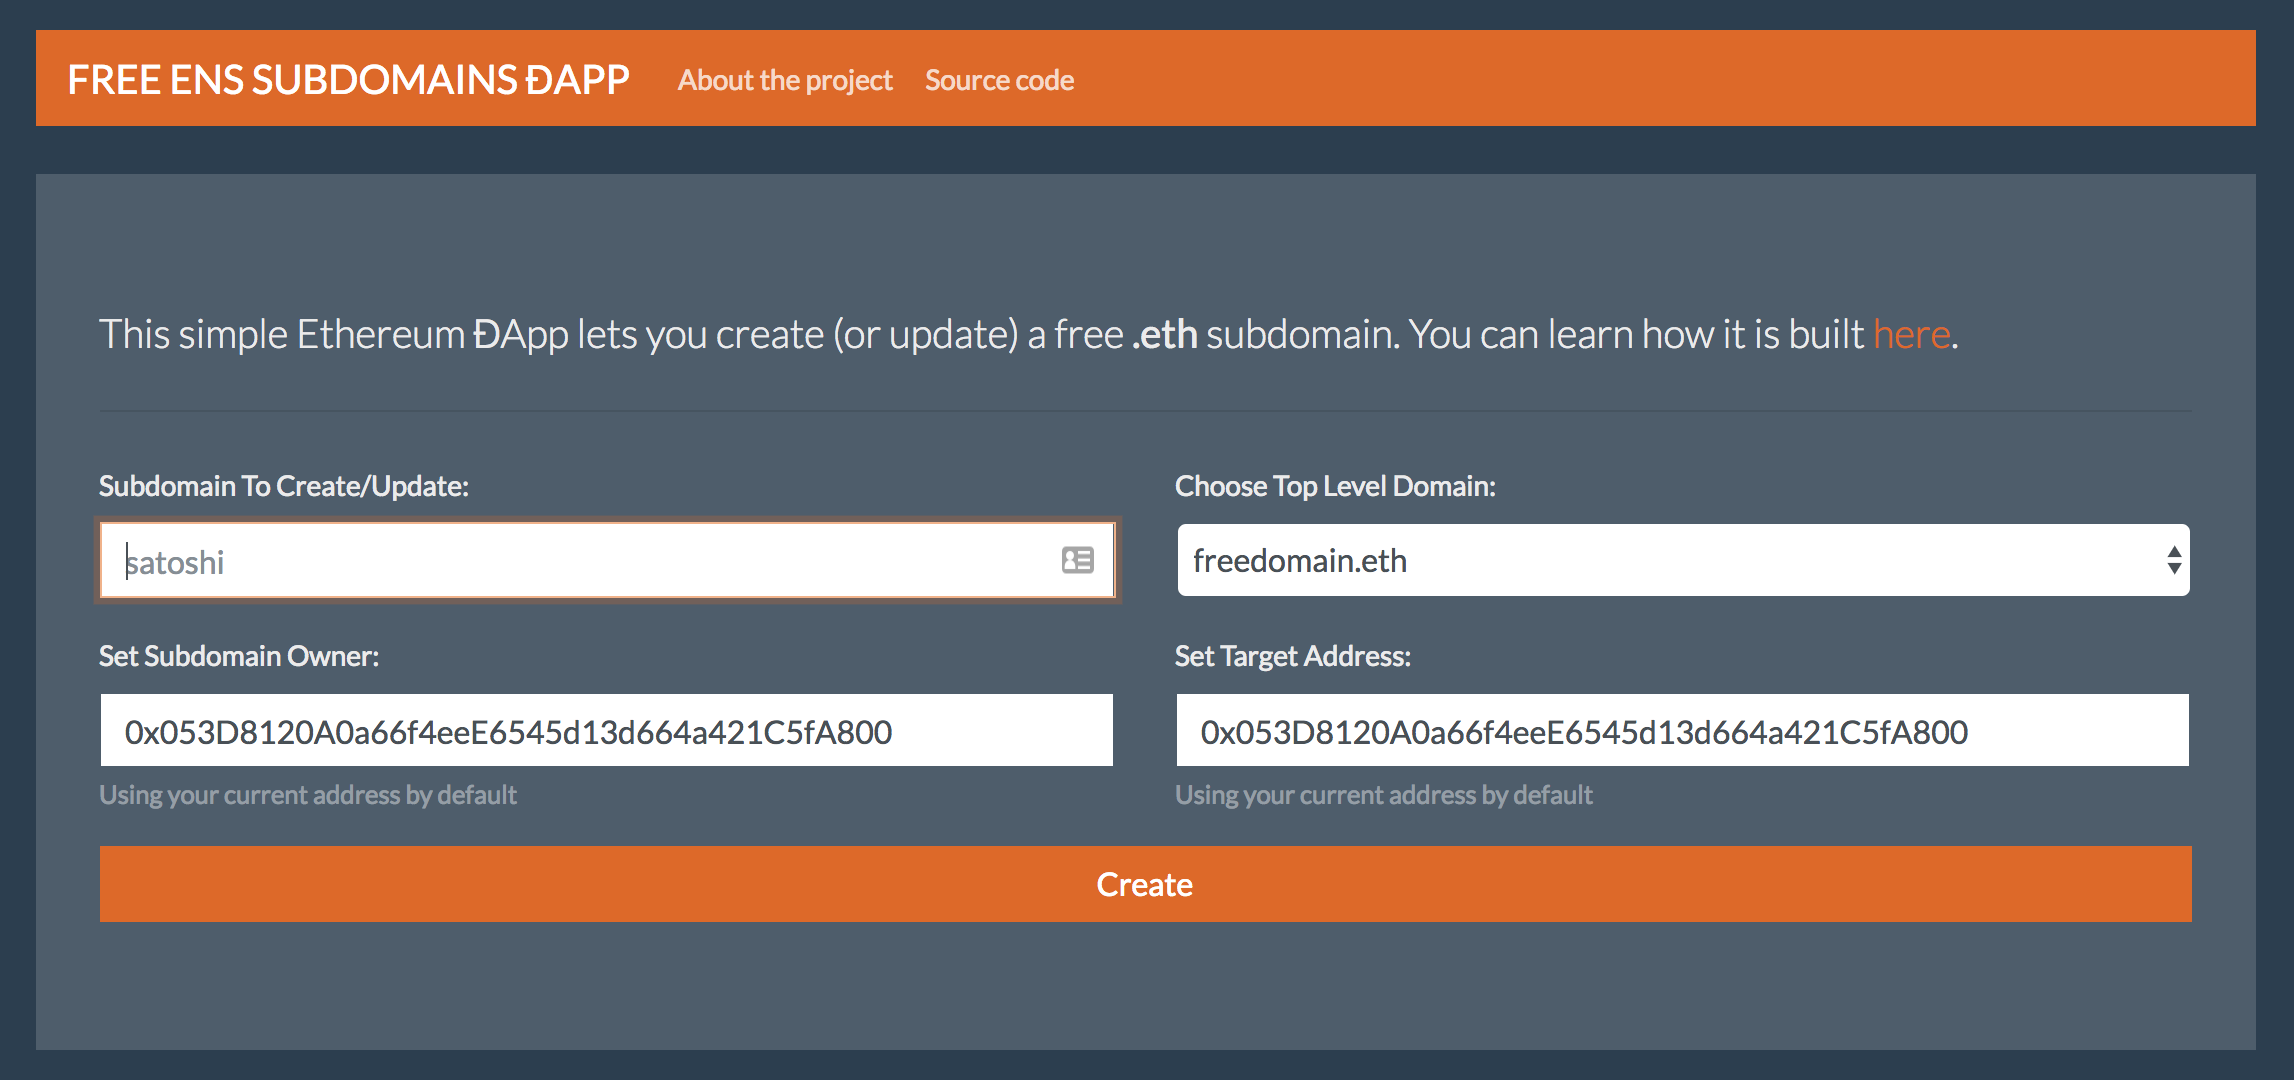
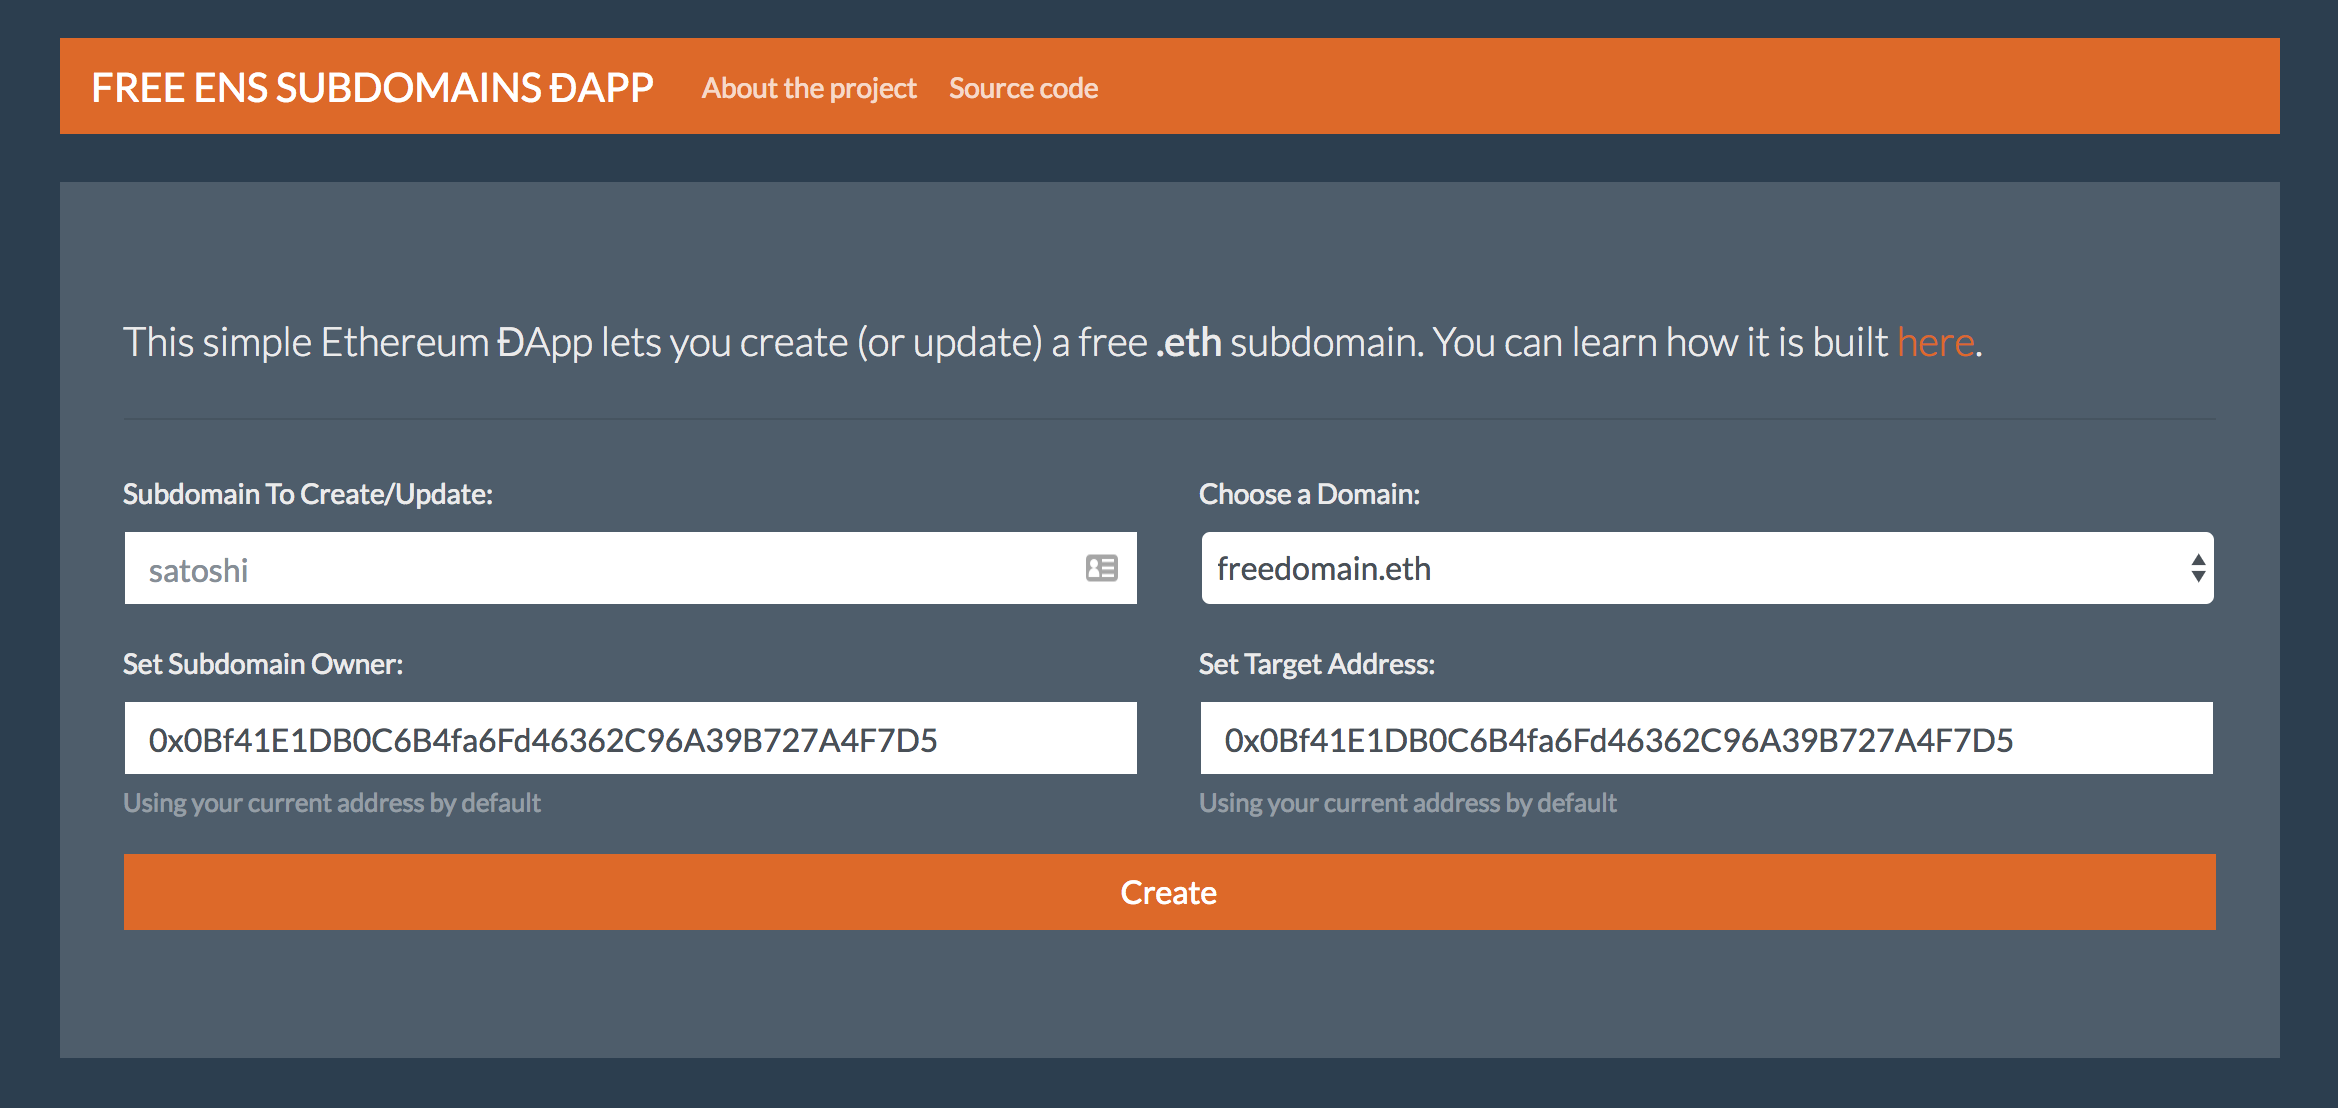
changed top-domain to domain

Changed region(s): [[0.0, 0.1528, 0.9904, 0.9778], [0.0, 0.0306, 0.9904, 0.1222]]

diff --git a/test/EnsSubdomainFactoryTest.js b/test/EnsSubdomainFactoryTest.js
@@ -33,9 +33,9 @@ contract('EnsSubdomainFactory', (accounts) => {
     }
 
     it("creating new subdomain works", async () => {
-        //first set the factory contract to be the owner of the top level domain
-        let topDomainNamehash = Namehash.hash(domainEth);
-        await registry.setOwner(topDomainNamehash, factory.address);
+        //first set the factory contract to be the owner of the domain
+        let domainNamehash = Namehash.hash(domainEth);
+        await registry.setOwner(domainNamehash, factory.address);
 
         let expectedNamehash = Namehash.hash(fullDomainEth);
         await factory.newSubdomain(subdomain, domain, subdomainOwner, subdomainTarget);
@@ -48,17 +48,17 @@ contract('EnsSubdomainFactory', (accounts) => {
         assert(subdomainTarget == (await resolver.targets.call(expectedNamehash)), "domain target invalid");
     });
 
-    it("creating new subdomain fails when factory is not the owner of top domain", async () => {
+    it("creating new subdomain fails when factory is not the owner of domain", async () => {
         try {
             await factory.newSubdomain(domain, subdomain, subdomainOwner, subdomainTarget);
             assert(false);
         } catch (e) {
-            expectRevert(e, "factory contract must be the owner of the top domain");
+            expectRevert(e, "factory contract must be the owner of the domain");
         }
     });
 
     it("updating subdomain works if done by current owner", async () => {
-        //first set the factory contract to be the owner of the top level domain
+        //first set the factory contract to be the owner of the  domain
         await registry.setOwner(Namehash.hash(domainEth), factory.address);
 
         let expectedNamehash = Namehash.hash(fullDomainEth);
@@ -77,7 +77,7 @@ contract('EnsSubdomainFactory', (accounts) => {
     });
 
     it("creating new subdomain fails if it is already owned by someone else", async () => {
-        //first set the factory contract to be the owner of the top level domain
+        //first set the factory contract to be the owner of the domain
         await registry.setOwner(Namehash.hash(domainEth), factory.address);
 
         //create it for the first time
@@ -92,7 +92,7 @@ contract('EnsSubdomainFactory', (accounts) => {
         }
     });
 
-    it("transferring top level domain works", async () => {
+    it("transferring domain works", async () => {
         let namehash = Namehash.hash(domainEth);
         
         await registry.setOwner(namehash, factory.address);
@@ -102,7 +102,7 @@ contract('EnsSubdomainFactory', (accounts) => {
         assert(subdomainOwner == (await registry.owner.call(namehash)));
     });
 
-    it("cannot transfer top level domains when locked", async () => {
+    it("cannot transfer domains when locked", async () => {
         let namehash = Namehash.hash(domainEth);
         
         await registry.setOwner(namehash, factory.address);
@@ -119,7 +119,7 @@ contract('EnsSubdomainFactory', (accounts) => {
         assert(factory.address == (await registry.owner.call(namehash)));
     });
 
-    it("cannot transfer top level domains when not contract owner", async () => {
+    it("cannot transfer domains when not contract owner", async () => {
         let namehash = Namehash.hash(domainEth);
         
         await registry.setOwner(namehash, factory.address);
@@ -128,7 +128,7 @@ contract('EnsSubdomainFactory', (accounts) => {
             await factory.transferTopLevelDomainOwnership(namehash, subdomainOwner, {from: subdomainOwner});
             assert(false);
         } catch (e) {
-            expectRevert(e, "cannot transfer top level domain if not contract owner");
+            expectRevert(e, "cannot transfer domain if not contract owner");
         }
         assert(factory.address == (await registry.owner.call(namehash)));
     });

diff --git a/docs/index.html b/docs/index.html
@@ -49,7 +49,7 @@
             <div class="invalid-feedback"><span id="invalid"></span></div>
           </div>
           <div class="col form-group">
-            <label for="domain">Choose Top Level Domain:</label>
+            <label for="domain">Choose a Domain:</label>
             <select class="form-control" id="domain">
             </select>
           </div>                
